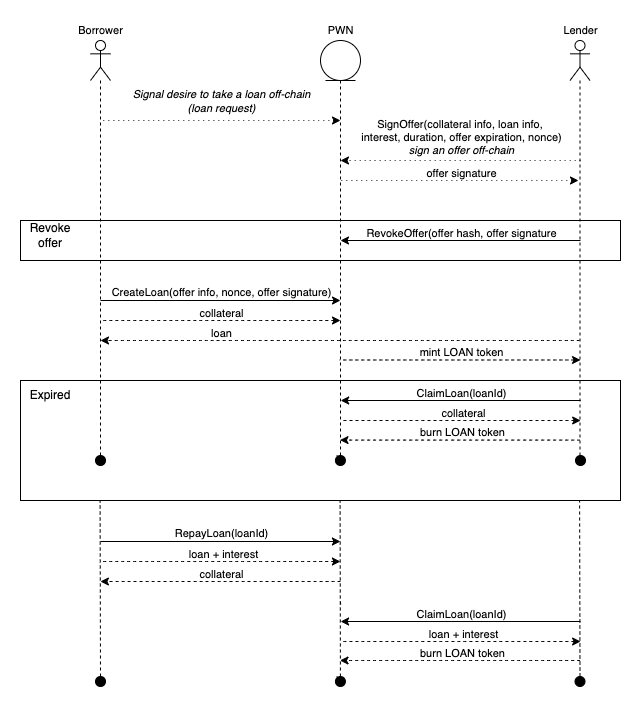
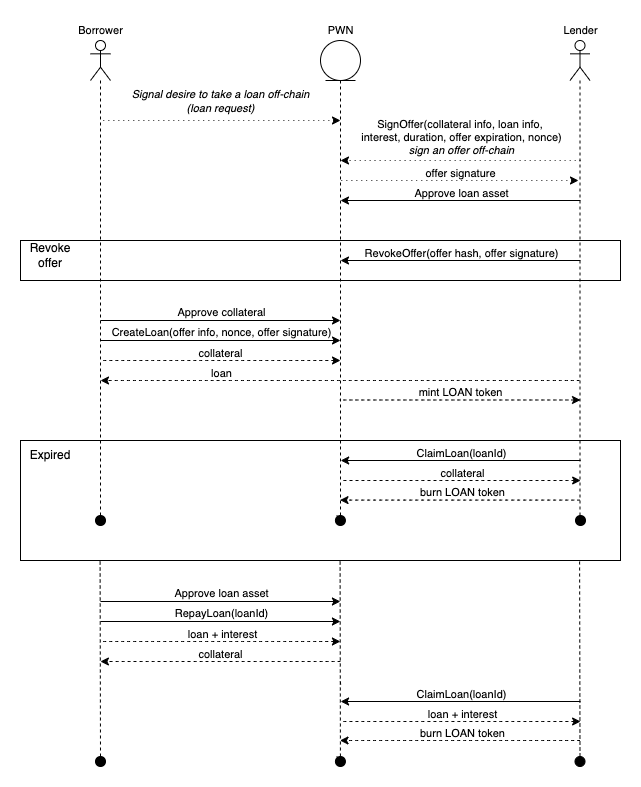
Update readme
- update flow diagram
- add polygon contract addresses

diff --git a/README.md b/README.md
@@ -84,10 +84,15 @@ With flexible offers, lender can give borrower additional flexibility by not pro
 Flexible parameters are: collateral id, loan amount, loan duration.
 
 ## Deployed addresses
-### Mainnet
+### Ethereum
 - PWN deployed at: _TBD_
 - PWNLOAN deployed at: _TBD_
 - PWNVault deployed at: _TBD_
+
+### Polygon
+- PWN deployed at: `0xBCdE56e9FB8c30aBB2D19Fb33D7DeD5031102da2`
+- PWNLOAN deployed at: `0x8680AEE63E48AACB51Ddc5Ad15979FC169C1cf2B`
+- PWNVault deployed at: `0xaF0d978275a2e7e3109F8C6307Ffd281774C623E`
 
 ### Rinkeby testnet
 - PWN deployed at: `0x34fCA53BbCbc2a4E2fF5D7F704b7143133dfaCF7`
